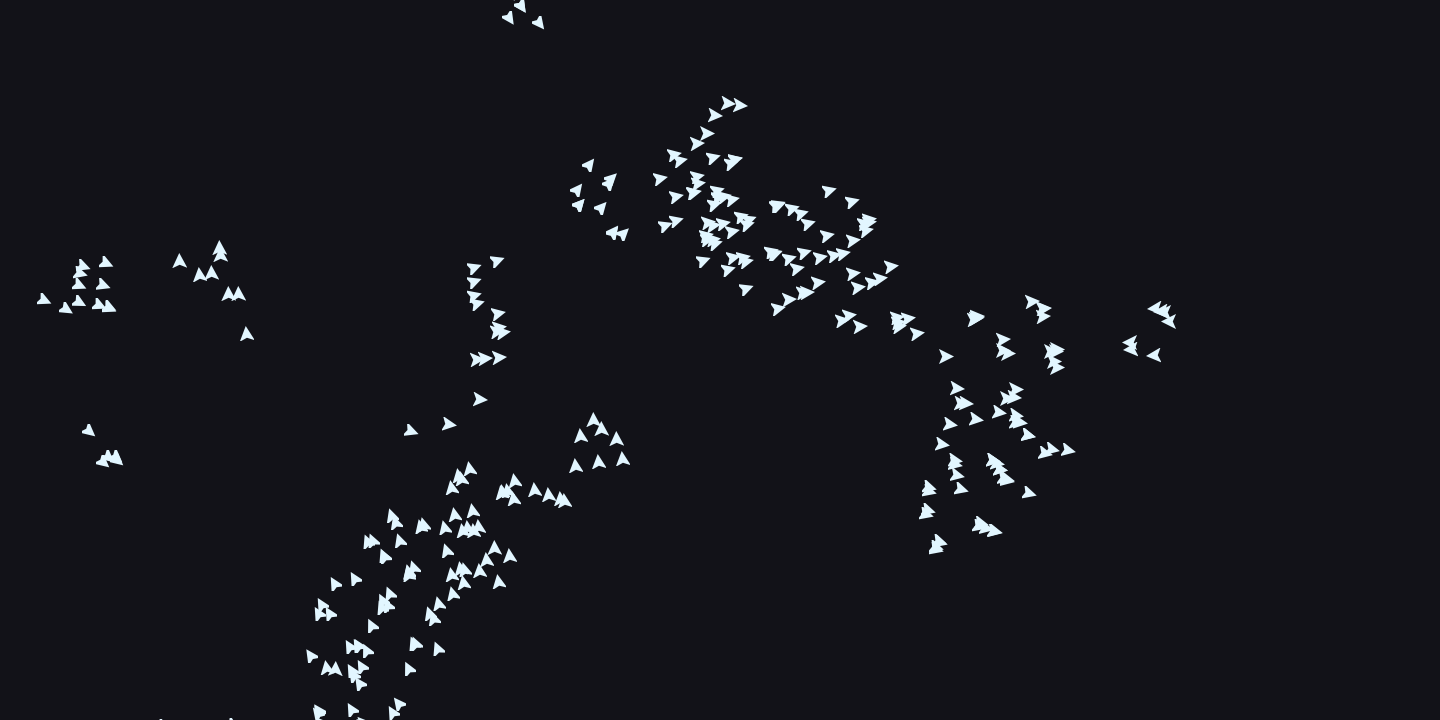
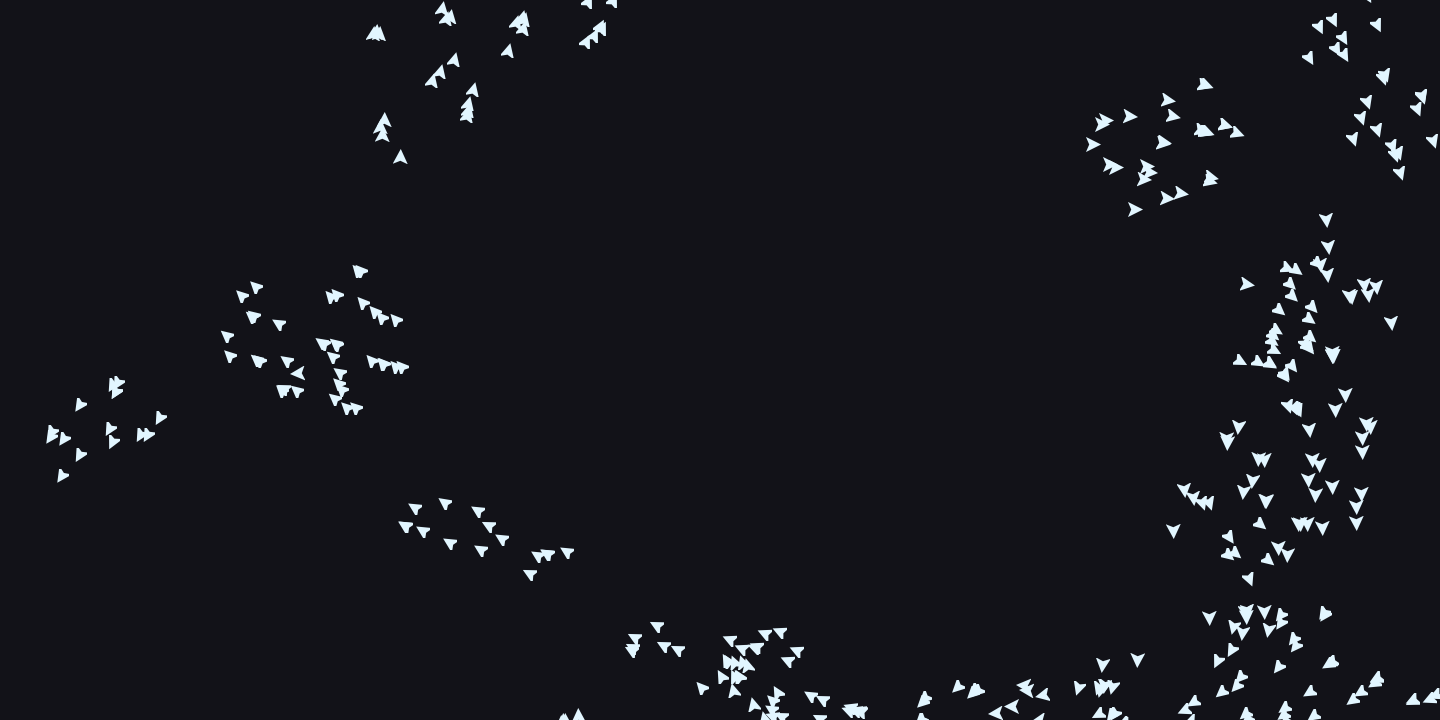
Let the birds bank
A bird that can turn any amount in one frame moves like a particle, and
the flock comes out as a blob that changes shape instantly.

diff --git a/tests/boids_test.c b/tests/boids_test.c
@@ -74,6 +74,8 @@ static void reset_test_config(void) {
     config.colour_by = COLOUR_BY_HEADING;
     config.mouse_mode = MOUSE_FLEE;
     config.mouse_reach = DEFAULT_MOUSE_REACH;
+    config.turning_notch = DEFAULT_TURNING_NOTCH;
+    config.wind_notch = 0;
     config.flocks = 1;
     apply_notches();
 }
@@ -160,7 +162,10 @@ static void test_engine_matches_brute_force(void) {
     memcpy(reference, snapshot, sizeof(snapshot));
     update_birds(optimized, snapshot, &grid);
     for (int i = 0; i < BIRD_COUNT; i++) {
-        double direction = brute_force_flock_direction(snapshot, i);
+        /* The reference banks the same way the engine does, or this would be
+         * comparing two different models rather than two ways of searching. */
+        double direction = turn_towards(snapshot[i].direction,
+                                        brute_force_flock_direction(snapshot, i), turn_limit());
         reference[i].direction = direction;
         reference[i].x += config.speed * cos(direction);
         reference[i].y += config.speed * sin(direction);
@@ -547,33 +552,40 @@ static void test_no_bird_ever_reaches_the_panel(void) {
     spatial_grid_t grid;
 
     assert(spatial_grid_init(&grid, SPATIAL_CELL_SIZE) == SPATIAL_GRID_OK);
-    for (int rate = MIN_FRAME_RATE; rate <= MAX_FRAME_RATE;
-         rate += MAX_FRAME_RATE - MIN_FRAME_RATE) {
-        reset_test_config();
-        config.frame_rate = rate;
-        update_speed(); /* Which moves the turn margin with it. */
-        apply_screen_size(200, 50, 200 * 8, 50 * 16);
-        config.birds = 1;
-        assert(spatial_grid_prepare(&grid, screen.width, screen.height, 1) == SPATIAL_GRID_OK);
+    /* Swept over the frame rate, which moves the margin, and over the turning
+     * limit, which is what nearly broke this: a bird that cannot turn at once
+     * cannot be turned away at once, so the panel's push is exempt from the limit
+     * and this test is what says so. Dropping that exemption fails it. */
+    static const int TURNS[] = {0, 1, DEFAULT_TURNING_NOTCH, LEGEND_BAR_CELLS};
+    for (size_t turn = 0; turn < sizeof(TURNS) / sizeof(*TURNS); turn++)
+        for (int rate = MIN_FRAME_RATE; rate <= MAX_FRAME_RATE;
+             rate += MAX_FRAME_RATE - MIN_FRAME_RATE) {
+            reset_test_config();
+            config.turning_notch = TURNS[turn];
+            config.frame_rate = rate;
+            update_speed(); /* Which moves the turn margin with it. */
+            apply_screen_size(200, 50, 200 * 8, 50 * 16);
+            config.birds = 1;
+            assert(spatial_grid_prepare(&grid, screen.width, screen.height, 1) == SPATIAL_GRID_OK);
 
-        double margin = config.speed;
-        /* Start just outside the turn zone, all the way round its two open
-         * sides, aimed in every direction. */
-        for (double x = 0; x <= screen.legend_width + margin + 40; x += 17)
-            for (double y = 0; y <= screen.legend_height + margin + 40; y += 13)
-                for (int d = 0; d < DIRECTIONS; d++) {
-                    bird_t bird = {.x = x, .y = y, .direction = 2 * M_PI * d / DIRECTIONS};
-                    if (legend_turn_zone(bird.x, bird.y)) continue; /* Not a legal start. */
-                    bird_t snapshot = bird;
-                    for (int frame = 0; frame < FRAMES; frame++) {
-                        snapshot = bird;
-                        assert(spatial_grid_build(&grid, 1, read_bird_position, &snapshot) ==
-                               SPATIAL_GRID_OK);
-                        update_birds(&bird, &snapshot, &grid);
-                        assert(!sprite_overlaps_legend(bird.x, bird.y));
+            double margin = config.speed;
+            /* Start just outside the turn zone, all the way round its two open
+             * sides, aimed in every direction. */
+            for (double x = 0; x <= screen.legend_width + margin + 40; x += 17)
+                for (double y = 0; y <= screen.legend_height + margin + 40; y += 13)
+                    for (int d = 0; d < DIRECTIONS; d++) {
+                        bird_t bird = {.x = x, .y = y, .direction = 2 * M_PI * d / DIRECTIONS};
+                        if (legend_turn_zone(bird.x, bird.y)) continue; /* Not a legal start. */
+                        bird_t snapshot = bird;
+                        for (int frame = 0; frame < FRAMES; frame++) {
+                            snapshot = bird;
+                            assert(spatial_grid_build(&grid, 1, read_bird_position, &snapshot) ==
+                                   SPATIAL_GRID_OK);
+                            update_birds(&bird, &snapshot, &grid);
+                            assert(!sprite_overlaps_legend(bird.x, bird.y));
+                        }
                     }
-                }
-    }
+        }
     spatial_grid_destroy(&grid);
     reset_test_config();
 }
@@ -598,6 +610,66 @@ static void test_birds_start_clear_of_the_panel(void) {
 }
 
 /* Two flocks share the space without sharing a heading. */
+static void test_birds_bank_rather_than_snap(void) {
+    reset_test_config();
+    config.turning_notch = DEFAULT_TURNING_NOTCH;
+    double most = turn_limit();
+    assert(most > 0 && most < 2 * M_PI);
+
+    /* Asked to reverse, it turns as far as it may and no further. */
+    double turned = turn_towards(0.0, M_PI, most);
+    assert(angle_difference(turned, most) < 1e-12);
+
+    /* It takes the short way round, through zero rather than the long way. */
+    double from_high = turn_towards(2 * M_PI - 0.05, 0.05, most);
+    assert(from_high >= 0 && from_high < 2 * M_PI);
+    assert(angle_difference(from_high, 0.05) < 1e-12); /* Within reach, so it arrives. */
+    double clockwise = turn_towards(0.05, 2 * M_PI - 0.05, most);
+    assert(angle_difference(clockwise, 2 * M_PI - 0.05) < 1e-12);
+
+    /* Anything already within the limit is simply reached. */
+    assert(angle_difference(turn_towards(1.0, 1.0 + most / 2, most), 1.0 + most / 2) < 1e-12);
+
+    /* The result is always on the circle, from anywhere to anywhere. */
+    for (int a = 0; a < 360; a += 7)
+        for (int b = 0; b < 360; b += 11) {
+            double got = turn_towards(a * M_PI / 180, b * M_PI / 180, most);
+            assert(got >= 0 && got < 2 * M_PI);
+            assert(angle_difference(got, a * M_PI / 180) <= most + 1e-12);
+        }
+
+    /* Twelve notches is instant, which is what it always used to be. */
+    config.turning_notch = LEGEND_BAR_CELLS;
+    assert(angle_difference(turn_towards(0.0, M_PI, turn_limit()), M_PI) < 1e-12);
+    /* And none at all is a straight line. */
+    config.turning_notch = 0;
+    assert(turn_limit() == 0.0);
+    assert(turn_towards(1.0, 3.0, turn_limit()) == 1.0);
+
+    /* Writing is exempt, or a bird could not land on a letter: it would circle
+     * one, and the crispness of the letters is the whole point of them. */
+    legend_enabled = 1;
+    apply_screen_size(200, 50, 1600, 800);
+    config.turning_notch = 0; /* The harshest limit there is. */
+    assert(spell_layout("I") > 0);
+    enum { BIRD_COUNT = 4 };
+    bird_t birds[BIRD_COUNT], snapshot[BIRD_COUNT];
+    spatial_grid_t grid;
+    config.birds = BIRD_COUNT;
+    for (int i = 0; i < BIRD_COUNT; i++)
+        birds[i] = (bird_t){.x = spell.x[0] - config.speed / 2, .y = spell.y[0], .direction = M_PI};
+    assert(spatial_grid_init(&grid, SPATIAL_CELL_SIZE) == SPATIAL_GRID_OK);
+    assert(spatial_grid_prepare(&grid, screen.width, screen.height, BIRD_COUNT) == SPATIAL_GRID_OK);
+    memcpy(snapshot, birds, sizeof(birds));
+    assert(spatial_grid_build(&grid, BIRD_COUNT, read_bird_position, snapshot) == SPATIAL_GRID_OK);
+    update_birds(birds, snapshot, &grid);
+    assert(fabs(birds[0].x - spell.x[0]) < 1e-9); /* Landed, despite the limit. */
+    spatial_grid_destroy(&grid);
+
+    spell_clear();
+    reset_test_config();
+}
+
 static void test_the_konami_code(void) {
     reset_test_config();
     legend_enabled = 1;
@@ -1351,6 +1423,7 @@ int main(void) {
     test_boundary_bands_follow_the_viewport();
     test_bottom_band_scales_on_a_short_viewport();
     test_birds_start_spread_inside_the_free_region();
+    test_birds_bank_rather_than_snap();
     test_the_konami_code();
     test_wind_leans_the_flock();
     test_autopilot_wanders_and_yields();

diff --git a/boids.c b/boids.c
@@ -37,6 +37,7 @@ enum {
     MOUSE_OFF,
     DEFAULT_MOUSE_REACH = 120,
     DEFAULT_VISION_NOTCH = 6,
+    DEFAULT_TURNING_NOTCH = 8,
     /* Only every sixteenth bird leaves one, because a tail behind all of them is
      * three times the bandwidth for a picture that reads as mud. Fifty comets in
      * a flock of eight hundred is what says "moving" in a still frame. */
@@ -171,7 +172,7 @@ typedef struct {
     int birds, frame_rate, bird_size, palette, flocks, colour_by;
     int mouse_mode, mouse_reach;
     int wrap, trails, hawks, shape;
-    int wind_notch;
+    int wind_notch, turning_notch;
     double speed;
     int vision_cells, vision_radius, vision_radius_squared;
     double separation, alignment, cohesion, boundary;
@@ -192,6 +193,7 @@ static config_t config = {
     .colour_by = COLOUR_BY_HEADING,
     .mouse_mode = MOUSE_FLEE,
     .mouse_reach = DEFAULT_MOUSE_REACH,
+    .turning_notch = DEFAULT_TURNING_NOTCH,
     .vision_cells = DEFAULT_VISION_RADIUS / SPATIAL_CELL_SIZE,
     .vision_radius = DEFAULT_VISION_RADIUS,
     .vision_radius_squared = DEFAULT_VISION_RADIUS * DEFAULT_VISION_RADIUS,
@@ -1211,10 +1213,49 @@ static void wrap_position(bird_t *bird) {
     if (bird->y >= height) bird->y -= height;
 }
 
+/*
+ * Turning inertia.
+ *
+ * A bird that can turn any amount in one frame moves like a particle: the flock
+ * comes out as a blob that changes shape instantly. Cap the turn and it banks
+ * instead, which gives the flock curved fronts, a leading edge, and the look of
+ * something with mass. This is the single change that makes it read as birds
+ * rather than as points, which is why the default is eight of twelve rather than
+ * the twelve it used to effectively be.
+ *
+ * Writing is exempt. It already overrules the flocking rules, and a bird that
+ * cannot turn sharply cannot land on a letter: it would circle one instead, and
+ * the crispness of the letters is the whole point of them.
+ */
+static double turn_towards(double from, double to, double most) {
+    double delta = atan2(sin(to - from), cos(to - from));
+    if (delta > most) delta = most;
+    if (delta < -most) delta = -most;
+    double turned = from + delta;
+    if (turned < 0) turned += 2 * M_PI;
+    if (turned >= 2 * M_PI) turned -= 2 * M_PI;
+    return turned;
+}
+
+/* Twelve is instant, zero is a straight line and nothing in between is either. */
+static double turn_limit(void) {
+    if (config.turning_notch >= LEGEND_BAR_CELLS) return 2 * M_PI;
+    return M_PI * config.turning_notch / LEGEND_BAR_CELLS / 2.0;
+}
+
 static void update_birds(bird_t *birds, const bird_t *snapshot, const spatial_grid_t *grid) {
     for (int i = 0; i < config.birds; i++) {
         int crowd = 0;
         double direction = flock_direction(snapshot, grid, i, &crowd);
+        /* Banking is for flocking. Two things are not flocking and are exempt: a
+         * bird writing a letter, which has to be able to land on it, and a bird
+         * inside the panel's turn zone, whose push is a constraint rather than a
+         * force. Limiting that one would break the panel's unreachability, which
+         * is proved on the assumption that a bird can turn away at once. */
+        double unused_x, unused_y;
+        if (!spell_target_of(i, &unused_x, &unused_y) &&
+            !legend_turn_zone(snapshot[i].x, snapshot[i].y))
+            direction = turn_towards(snapshot[i].direction, direction, turn_limit());
         birds[i].direction = direction;
         /* Never past the target: the last step is the distance left, which is
          * what makes a letter crisp instead of a cloud orbiting one. */
@@ -1539,6 +1580,9 @@ static const option_t OPTIONS[] = {
     {0, "alignment", NULL, OPTION_INT, &config.alignment_notch, 0, LEGEND_BAR_CELLS, NULL, "NOTCH",
      "how much it matches its neighbours (default 4)", "Sliders   0 to 12, as the panel shows them",
      0},
+    {0, "turning", NULL, OPTION_INT, &config.turning_notch, 0, LEGEND_BAR_CELLS, NULL, "NOTCH",
+     "sharpest turn a frame, 12 is instant (default 8)",
+     "Sliders   0 to 12, as the panel shows them", 0},
     {0, "wind", NULL, OPTION_INT, &config.wind_notch, 0, LEGEND_BAR_CELLS, NULL, "NOTCH",
      "a slow wandering breeze (default 0)", "Sliders   0 to 12, as the panel shows them", 0},
     {0, "perception", NULL, OPTION_INT, &requested_perception, MIN_VISION_RADIUS, MAX_VISION_RADIUS,
@@ -1606,10 +1650,11 @@ static const option_t OPTIONS[] = {
 enum { OPTION_COUNT = sizeof(OPTIONS) / sizeof(*OPTIONS) };
 
 /* The panel teaches the slider keys, so this only has to list the rest. */
-#define KEYS_HELP                                                      \
-    "\nKeys   b/B s/S c/C a/A p/P r/R   one notch down / up\n"         \
-    "       space pause   . step   0 reset   +/- birds   Tab preset\n" \
-    "       h panel   e trails   w wrap   k/K hawks   M mouse   L colour   q quit\n"
+#define KEYS_HELP                                                           \
+    "\nKeys   b/B s/S c/C a/A p/P r/R t/T   one notch down / up\n"          \
+    "       space pause   . step   0 reset   +/- birds   Tab preset\n"      \
+    "       h panel   e trails   w wrap   k/K hawks   M mouse   L colour\n" \
+    "       q quit\n"
 
 enum { EXIT_USAGE = 2 }; /* A mistyped command is not a run that went wrong. */
 
@@ -1814,6 +1859,12 @@ static int handle_input(void) {
                 continue;
             case 'K':
                 if (config.hawks > 0) config.hawks--;
+                continue;
+            case 'T':
+                if (config.turning_notch < LEGEND_BAR_CELLS) config.turning_notch++;
+                continue;
+            case 't':
+                if (config.turning_notch > 0) config.turning_notch--;
                 continue;
             case 'w':
                 config.wrap = !config.wrap;
